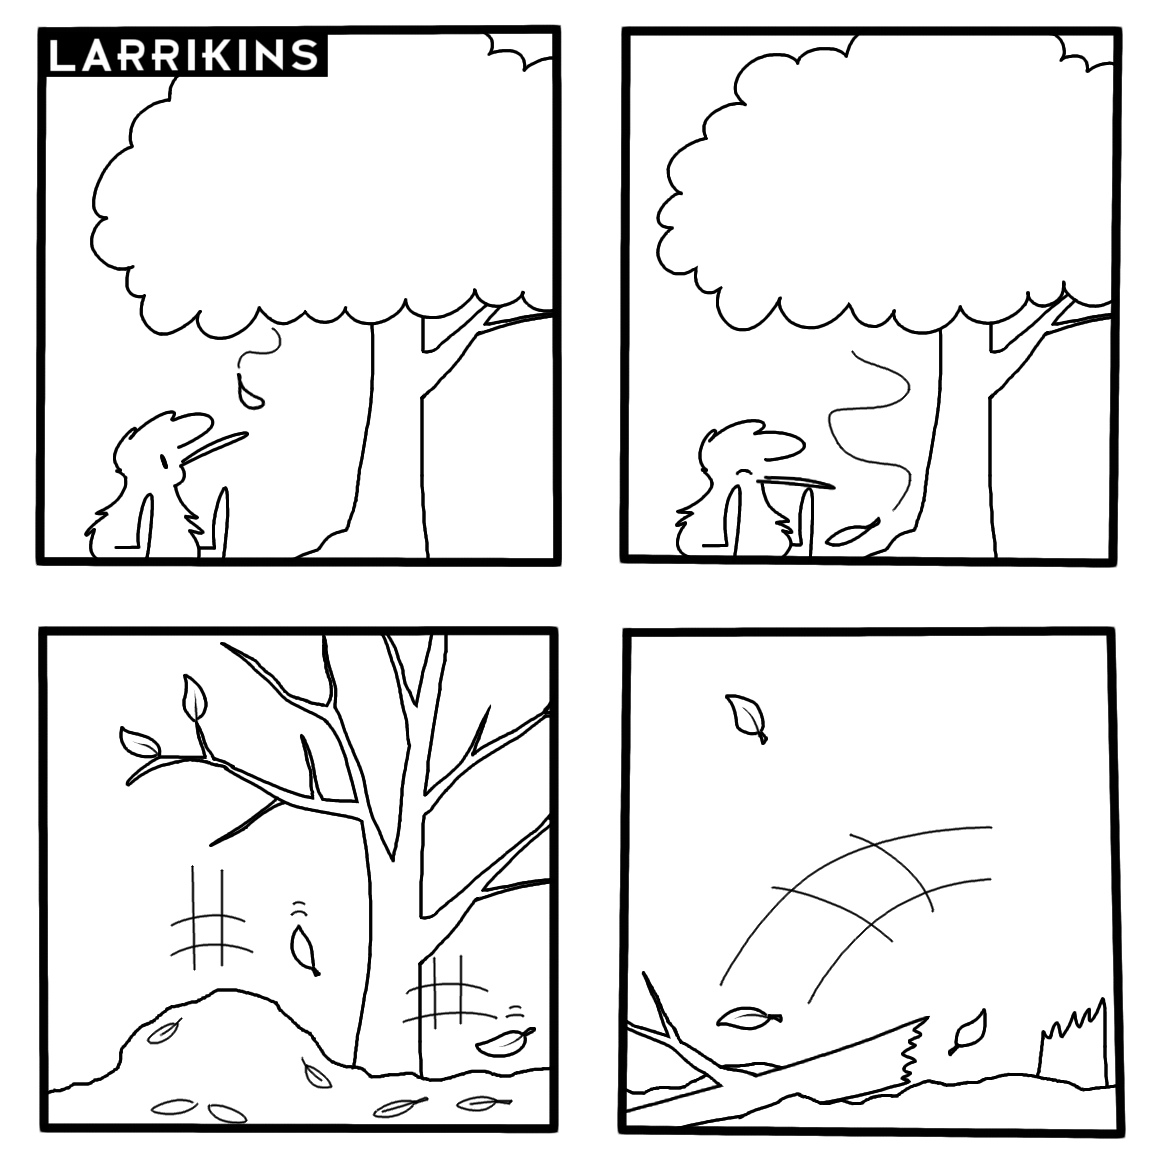
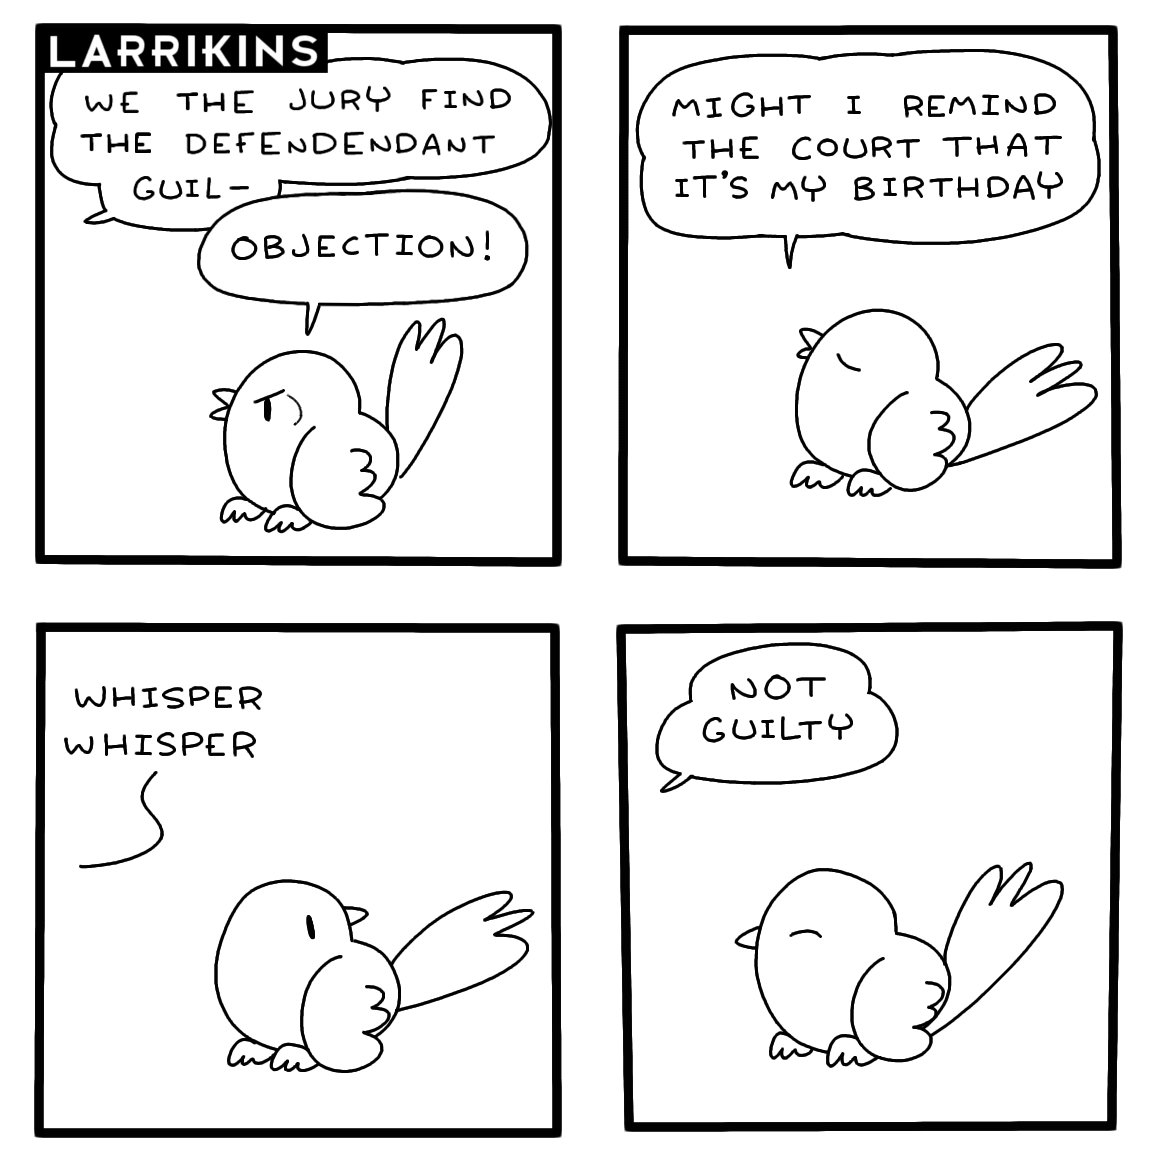
comics added & searchable up to end of 2019

diff --git a/static/css/style.css b/static/css/style.css
@@ -102,8 +102,8 @@ header nav a:hover {
 
 #comic-search {
     padding: 10px;
-    border-radius: 40px;
-    border: 2px solid rgb(77, 77, 77);
+    /* border-radius: 40px; */
+    border: 2px solid rgb(0, 0, 0);
     display: block;
     margin: auto;
     width: 400px;
